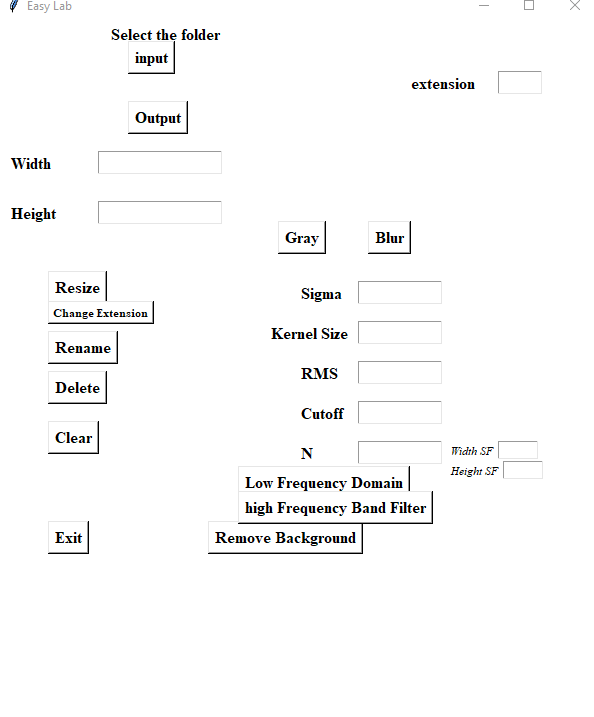
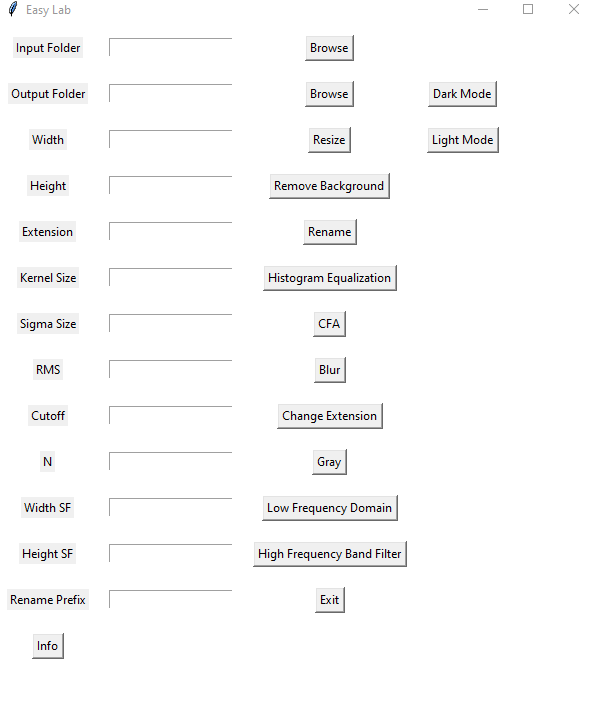
Deployed d1e6da3 with MkDocs version: 1.3.1

diff --git a/api_reference/index.html b/api_reference/index.html
@@ -83,18 +83,27 @@
               
                 <h3 id="api-reference">API REFERENCE</h3>
 <p>This page gives an overview of the functions.</p>
+<h3 id="modules-needed-to-run-the-gui">Modules needed to run the GUI</h3>
+<p>python 3.6 or higher
+psychopy
+numpy
+opencv-python
+matplotlib
+tkinter
+rembg</p>
+<h3 id="functions">Functions</h3>
 <p>+<a href="#browseFiles">browseFiles</a></p>
 <p>+<a href="#outputfile">outputfile</a></p>
 <p>+<a href="#resize">resize</a></p>
 <p>+<a href="#rename">rename</a></p>
-<p>+<a href="#delete">delete</a></p>
-<p>+<a href="#clear">clear</a></p>
 <p>+<a href="#blur">blur</a></p>
 <p>+<a href="#change_extension">change_extension</a></p>
+<p>+<a href="#Histogram-equalization">Histogram equalization</a></p>
 <p>+<a href="#gray">gray</a></p>
 <p>+<a href="#lowfrequencydomain">lowfrequencydomain</a></p>
 <p>+<a href="#highfrequencybandfilter">highfrequencybandfilter</a></p>
 <p>+<a href="#remove_background">remove_background</a></p>
+<p>+<a href="#cfa">cfa</a></p>
 <p>+<a href="#exit">exit</a></p>
 <p>+<a href="#easylabgui">easylabgui</a></p>
 <p><strong><em>browseFiles</em></strong><a name="browseFiles"></a>
@@ -104,17 +113,16 @@ outputfile is a function that opens a file browser and lets you select a folder 
 <p><strong><em>resize</em></strong><a name="resize"></a>
 resize is a function that resizes all images in the folder to the desired size.</p>
 <p><strong><em>rename</em></strong><a name="rename"></a>
-rename is a function that renames all images in the folder following a pattern: 01image, 02image, 03image, ...</p>
-<p><strong><em>delete</em></strong><a name="delete"></a>
-delete is a function that deletes all images in the folder.</p>
-<p><strong><em>clear</em></strong><a name="clear"></a>
-clear the selected folder and all its contents.</p>
+rename is a function that renames all images in the folder with desired prefix. Don't forget to add extension if you use rename option. If you starts with a number, it will be added to the end of the name. For example, if you use 1 as prefix, the image name will be 1_1.jpg, 1_2.jpg, 1_3.jpg, etc. </p>
 <p><strong><em>blur</em></strong><a name="blur"></a>
-blur is a function that applies gaussian blur to all images in the folder with the given sigma and kernel size.</p>
+blur is a function that applies gaussian blur to all images in the folder with the given sigma and kernel size.
+Sigma is the standard deviation of the gaussian kernel. Kernel size is the size of the kernel. It should be odd. For example, 3, 5, 7, etc.</p>
 <p><strong><em>change_extension</em></strong><a name="change_extension"></a>
 change_extension is a function that changes all images' extensions to the desired extension.</p>
 <p><strong><em>gray</em></strong><a name="gray"></a>
 gray is a function that converts all images to GRAY.</p>
+<p><strong><em>Histogram equalization</em></strong><a name="Histogram-equalization"></a>
+Histogram equalization is a function that applies histogram equalization to all images in the folder. It is a method in which the image is transformed so that the intensity distribution is uniform. This method is useful to improve the contrast of images, especially when the usable data of the image is represented by close contrast values. Function uses cv2.equalizeHist().</p>
 <p><strong><em>lowfrequencydomain</em></strong><a name="lowfrequencydomain"></a>
 lowfrequencydomain is a function that applies low frequency filter to all images in the folder with the given cutoff frequency.
 the function is based on the PsychoPy: <a href="https://psychopy.org/api/filters.html">Psychopy</a>. You can adjust RMS, cutoff frequency, and order of the filter.</p>
@@ -124,6 +132,8 @@ highfrequencybandfilter is a function that applies high frequency filter to all 
 the function is based on the PsychoPy: <a href="https://psychopy.org/api/filters.html">Psychopy</a>. You can adjust RMS, cutoff frequency, and order of the filter.</p>
 <p><strong><em>remove_background</em></strong><a name="remove_background"></a>
 remove_background is a function that removes the background from all images in the folder. It is based on the rembg package: <a href="https://github.com/danielgatis/rembg">rembg</a></p>
+<p><strong><em>cfa</em></strong><a name="cfa"></a>
+cfa is a function that converts all images to CFA which stands for Color Filter Array or color filter mosaic. It is a method of color filter array photography. There are 4 types of CFA.</p>
 <p><strong><em>exit</em></strong><a name="exit"></a>
 exit is a function that exits the program.</p>
 <p><strong><em>easylabgui</em></strong><a name="easylabgui"></a>

diff --git a/index.html b/index.html
@@ -81,49 +81,53 @@
           <div role="main" class="document" itemscope="itemscope" itemtype="http://schema.org/Article">
             <div class="section" itemprop="articleBody">
               
-                <h1 id="easylab">EasyLab</h1>
+                <p><a href="https://badge.fury.io/py/easylab"><img alt="PyPI version" src="https://badge.fury.io/py/easylab.svg" /></a>
+<a href="https://github.com/altunenes/easylab/actions/workflows/pages/pages-build-deployment"><img alt="pages-build-deployment" src="https://github.com/altunenes/easylab/actions/workflows/pages/pages-build-deployment/badge.svg" /></a>
+<a href="https://pepy.tech/project/easylab"><img alt="Downloads" src="https://pepy.tech/badge/easylab" /></a></p>
+<h4 id="easylab">EasyLab</h4>
 <p>Offers simple solutions with GUI. From a folder, it can resize images, change their extensions, applies spatial frequencies, and remove backgrounds...</p>
-<h1 id="purpose-of-the-project">Purpose of the project</h1>
+<h4 id="purpose-of-the-project">Purpose of the project</h4>
 <ul>
-<li>The purpose of the project is to offer a simple solution to solve some of the problems that arise when working with big image datasets. </li>
+<li>The purpose of the project is to offer simple solutions to solve some of the problems that arise when working with big image datasets.</li>
 <li>The project is a work in progress, and it is not finished yet. Since it offers GUI, it is very practical to use it.</li>
 </ul>
-<h1 id="features">Features</h1>
+<h4 id="features">Features</h4>
 <ul>
 <li>Resize images</li>
 <li>Change extension</li>
-<li>Apply spatial frequencies</li>
+<li>Apply spatial frequencies (low pass, high pass with Butterworth filter)</li>
 <li>Apply Gaussian blur</li>
-<li>Apply gray scale filter</li>
-<li>Rename images</li>
-<li>Remove background from images</li>
+<li>Apply grayscale filter (RGB to Gray)</li>
+<li>Rename images (with a desired prefix)</li>
+<li>Remove background from images (Utilizes deep learning, so it is slow depending on the size of the images)</li>
+<li>Apply Histogram Equalization</li>
+<li>Apply CFA (Color Filter Array) filter</li>
 </ul>
-<h1 id="installation">installation</h1>
+<h4 id="installation">installation</h4>
 <ul>
 <li>Install easylab with pip:
-<code>pip install easylab</code></li>
+  <code>pip install easylab</code></li>
 </ul>
-<h1 id="usage">Usage</h1>
+<h4 id="usage">Usage</h4>
 <p>it is very simple to use the project.
 For the open GUI, use the following command:
-<code>from EasyLab import EasyLab</code>
+<code>from easylab import easylab</code>
 then open the gui with:
-<code>EasyLab.easylab()</code></p>
-<p>It's easy, just select the folder where your images are stored and select extension and size. "Rename" button will change all images' names like this: "0image", "1image","2image"... and so on...<br />
-I use this command to standardize the picture names while doing deep learning.</p>
-<h3 id="read-before-the-usage"><strong>Read before the usage!</strong></h3>
-<p>For unforeseen consequences be sure to copy the original images elsewhere.</p>
-<h2 id="javascript">Javascript</h2>
-<p>I will also add some javascript to online version.</p>
-<h1 id="e-prime-scripts">E-prime scripts</h1>
+<code>easylab.easylabgui()</code></p>
+<p>This basically starts the GUI. First, select the input folder then select the output folder. Then just select the options you want to apply to the images. Rename images will change all image names from the input folder with the input prefix. Don't forget to add an extension if you use rename option.</p>
+<h4 id="javascript">Javascript</h4>
+<p>I will also add some javascript to the online version. You can find js demos on the easylab website
+ <a href="https://altunenes.github.io/easylab/">here</a></p>
+<h4 id="e-prime-scripts">E-prime scripts</h4>
 <p>get the trail list (Image names for the E-Prime) or create a jitter:
 https://altunenes.github.io/EasyLab/filenames</p>
-<h2 id="contributing">Contributing</h2>
+<h4 id="contributing">Contributing</h4>
 <p>Contributions are welcome!</p>
-<h2 id="author">Author</h2>
 <ul>
 <li>Enes Altun <a href="https://altunenes.github.io">Main Author</a></li>
 </ul>
+<h3 id="current-look">Current look</h3>
+<p><img alt="easylab.png" src="./docs/images/easylab.png" /></p>
               
             </div>
           </div><footer>
@@ -171,5 +175,5 @@ https://altunenes.github.io/EasyLab/filenames</p>
 
 <!--
 MkDocs version : 1.3.1
-Build Date UTC : 2022-10-19 23:56:17.445602+00:00
+Build Date UTC : 2022-11-13 21:04:40.023527+00:00
 -->
